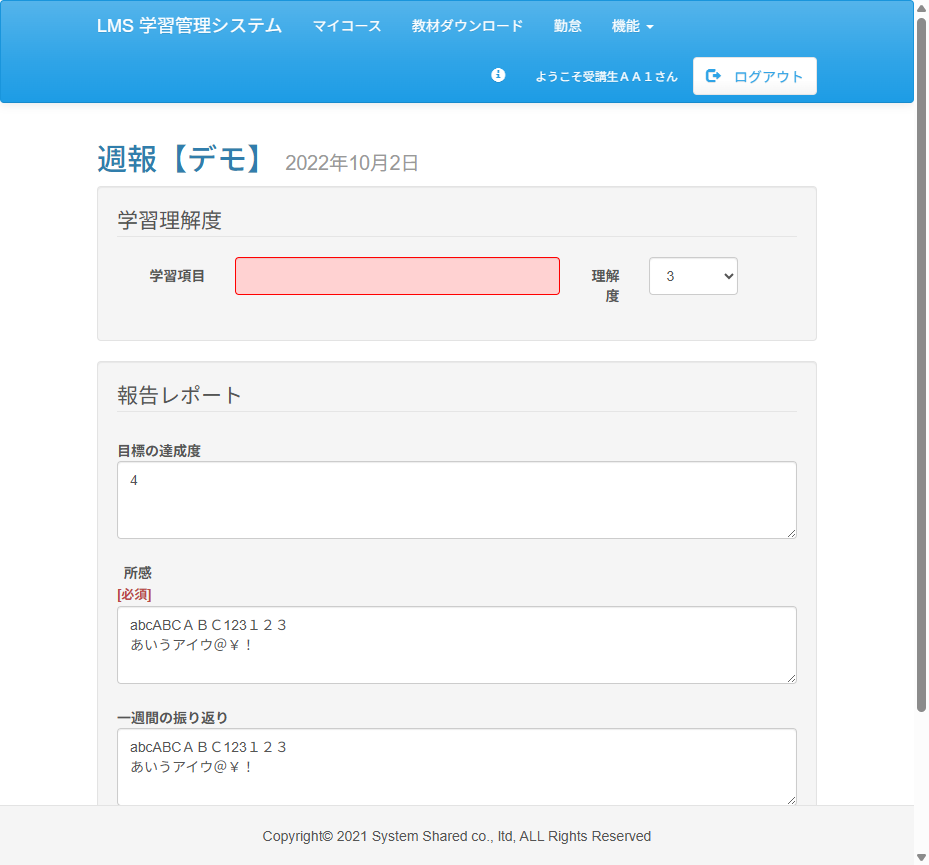
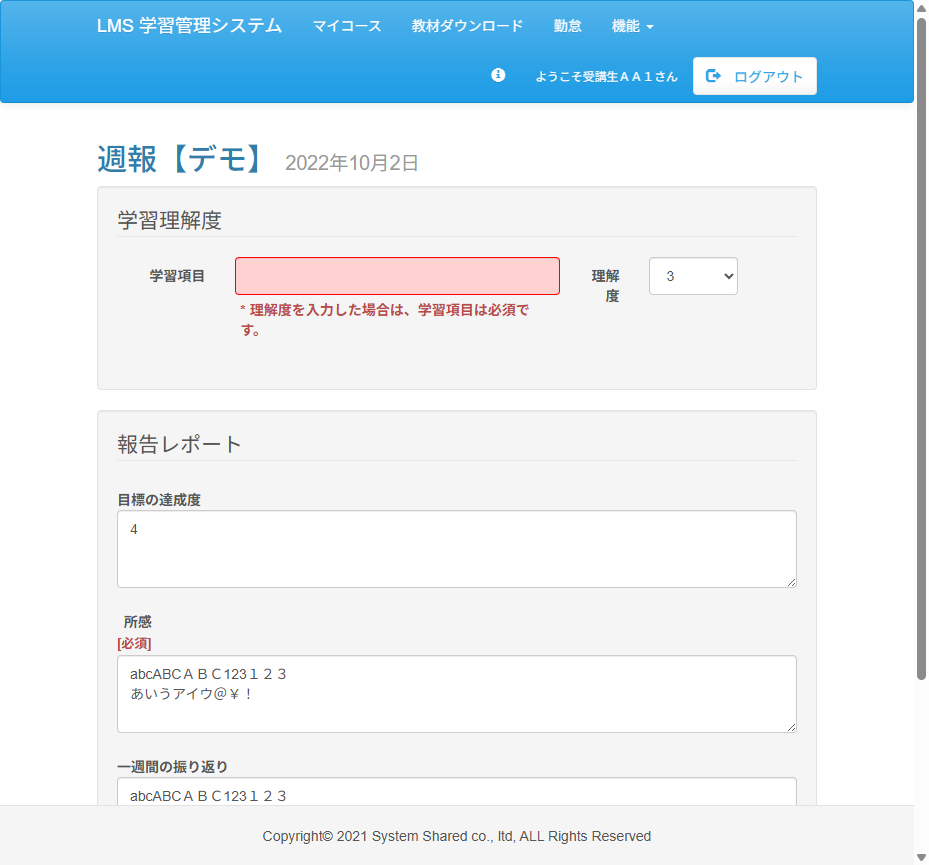
fix:Case09.java　エビデンスの修正
エラーメッセージが表示されているスクリーンショットに変更

diff --git a/test_code_creation_oshimayuki/src/main/resources/templates/report/regist.html b/test_code_creation_oshimayuki/src/main/resources/templates/report/regist.html
@@ -20,7 +20,10 @@
 						<label for="intFieldName_${i}" class="col-sm-2 control-label">学習項目</label>
 						<div class="col-sm-6">
 							<input type="text" th:id="|intFieldName_${i}|" th:name="|intFieldNameArray[${i}]|" class="form-control" 
-								th:value="*{intFieldNameArray[__${i}__]}" th:errorclass="errorInput" maxlength="100"  />
+								th:value="*{intFieldNameArray[__${i}__]}" th:errorclass="errorInput" />
+							<p class="help-inline error" th:if="${#fields.hasErrors('intFieldNameArray[' + i + ']')}">
+								<span th:errors="*{intFieldNameArray[__${i}__]}"></span>
+							</p>
 						</div>
 						<label for="intFieldValue_${i}" class="col-sm-1 control-label">理解度</label>
 						<div class="col-sm-2">
@@ -29,6 +32,9 @@
 								<option th:each="j : *{#numbers.sequence(1, intelligibilityNum)}" th:name="|intFieldValue_$[i]|"
 									th:value="${j}" th:selected="*{intFieldValueArray[__${i}__]} == ${j}">[[${j}]]</option>
 							</select>
+							<p class="help-inline error" th:if="${#fields.hasErrors('intFieldValueArray[' + i + ']')}">
+								<span th:errors="*{intFieldValueArray[__${i}__]}"></span>
+							</p>
 						</div>
 					</div>
 				</fieldset>
@@ -53,6 +59,10 @@
 						<div class="col-lg-10">
 							<textarea class="form-control" rows="3" th:id="|content_${stat.index}|" th:name="|contentArray[${stat.index}]|" 
 								th:errorclass="errorInput">[[*{contentArray[__${stat.index}__]}]]</textarea>
+							<p class="help-inline error"
+								th:if="${#fields.hasErrors('contentArray[' + stat.index + ']')}">
+								<span th:errors="*{contentArray[__${stat.index}__]}"></span>
+							</p>
 						</div>
 					</div>
 				</fieldset>
